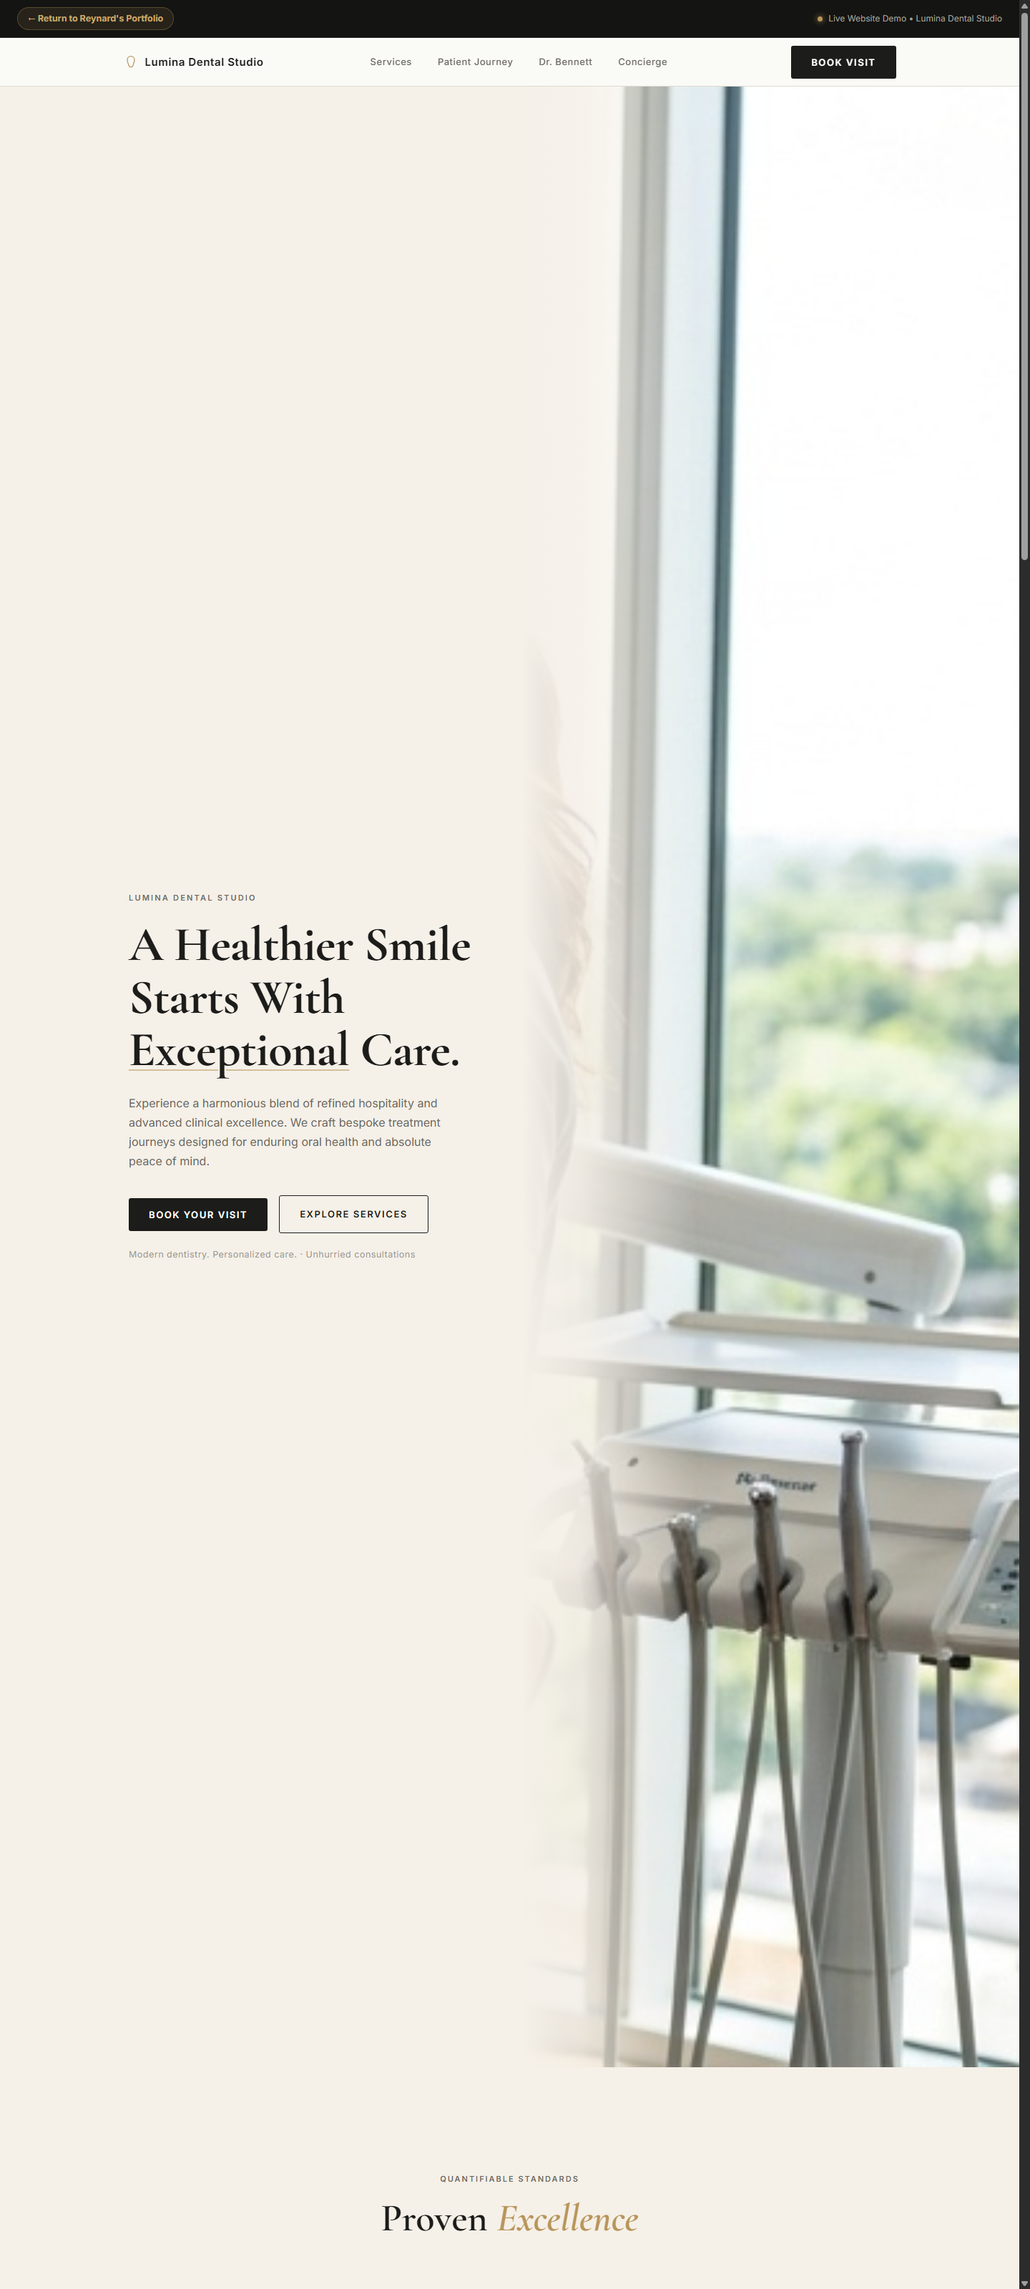
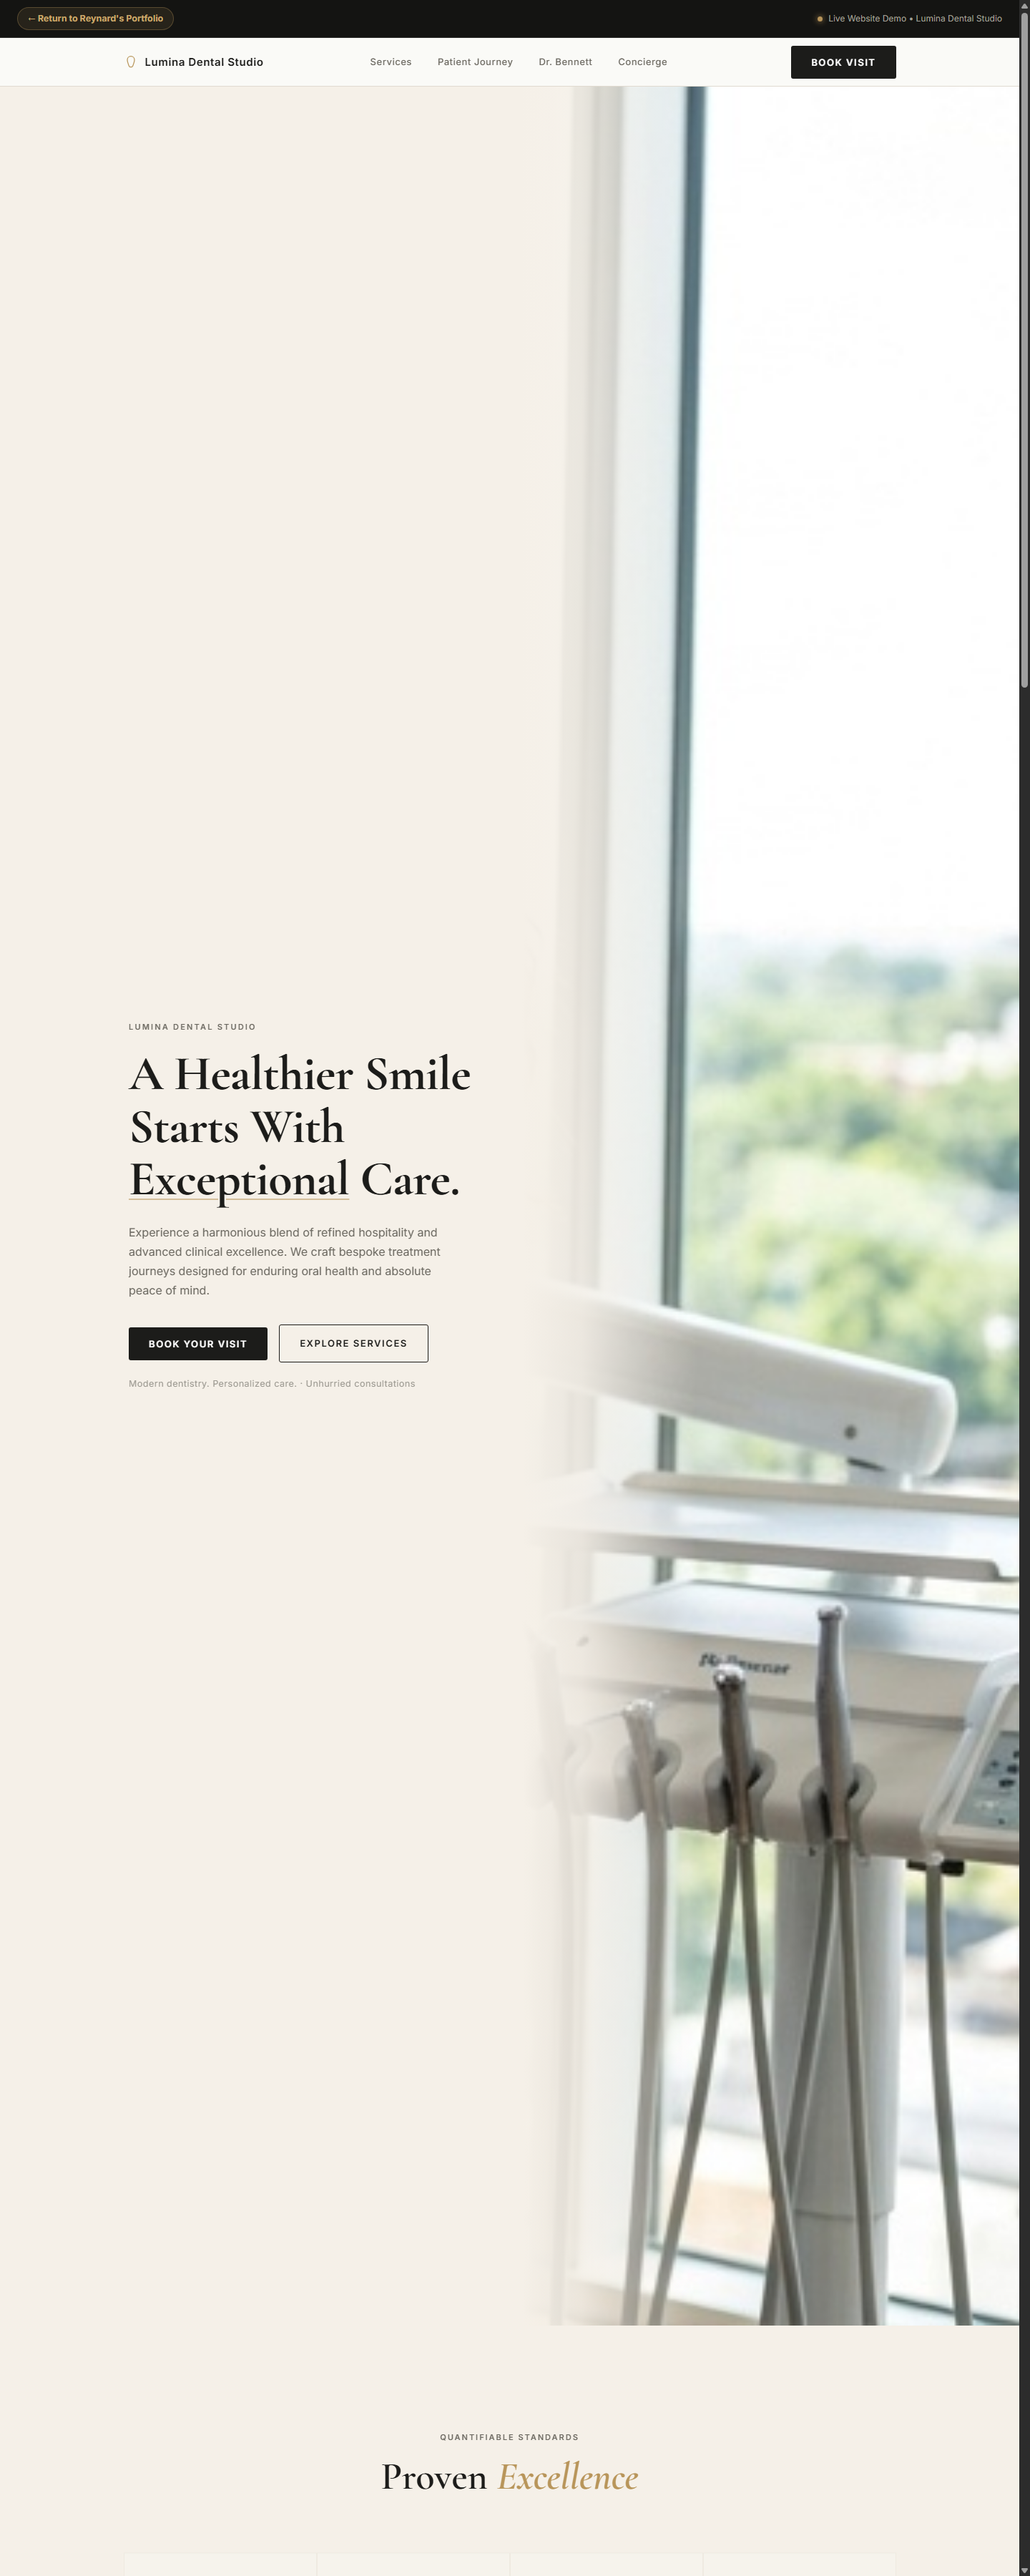
fix: replace blurry website thumbnails with native crisp 1440px captures and pure white headings

diff --git a/src/components/ProjectPanels.tsx b/src/components/ProjectPanels.tsx
@@ -314,7 +314,7 @@ const LUMINA_PROOFS: ProofItem[] = [
   {
     title: 'Lumina Dental Studio — Practice Experience & Patient Concierge',
     badge: 'Live Website',
-    src: '/samples/thumbs/lumina-dental.jpeg',
+    src: '/samples/thumbs/lumina-dental.png',
     fullSrc: '/samples/lumina-dental-full.png',
     href: '/lumina-dental',
     alt: 'Lumina Dental Studio luxury practice website screenshot',
@@ -387,7 +387,7 @@ const FITCO_PROOFS: ProofItem[] = [
   {
     title: 'FitCo Athletics — High-Performance Fitness Coaching Funnel',
     badge: 'Live Website & Funnel',
-    src: '/samples/thumbs/fitco-coaching.jpeg',
+    src: '/samples/thumbs/fitco-coaching.png',
     fullSrc: '/samples/fitco-coaching-full.png',
     href: '/fitco-coaching',
     alt: 'FitCo High-Performance Coaching live website',
@@ -460,7 +460,7 @@ const HAVEN_PROOFS: ProofItem[] = [
   {
     title: 'Serene Haven — Senior Living & Assisted Care Community',
     badge: 'Live Website & Funnel',
-    src: '/samples/thumbs/haven-senior-care.jpeg',
+    src: '/samples/thumbs/haven-senior-care.png',
     fullSrc: '/samples/haven-senior-care-full.png',
     href: '/haven-senior-care',
     alt: 'Serene Haven Senior Care live website',
@@ -533,7 +533,7 @@ const MERIDIAN_PROOFS: ProofItem[] = [
   {
     title: 'Meridian Executive Recruitment & Staffing Platform',
     badge: 'Live Website & Funnel',
-    src: '/samples/thumbs/meridian-staffing.jpeg',
+    src: '/samples/thumbs/meridian-staffing.png',
     fullSrc: '/samples/meridian-staffing-full.png',
     href: '/meridian-staffing',
     alt: 'Meridian Executive Staffing full website screenshot',

diff --git a/src/styles/proof-deck.css b/src/styles/proof-deck.css
@@ -34,7 +34,7 @@
   font-family: var(--font-display, sans-serif);
   font-size: clamp(24px, 3vw, 36px);
   font-weight: 700;
-  color: #0F172A !important;
+  color: #FFFFFF !important;
   line-height: 1.2;
   letter-spacing: -0.02em;
   margin: 0;
